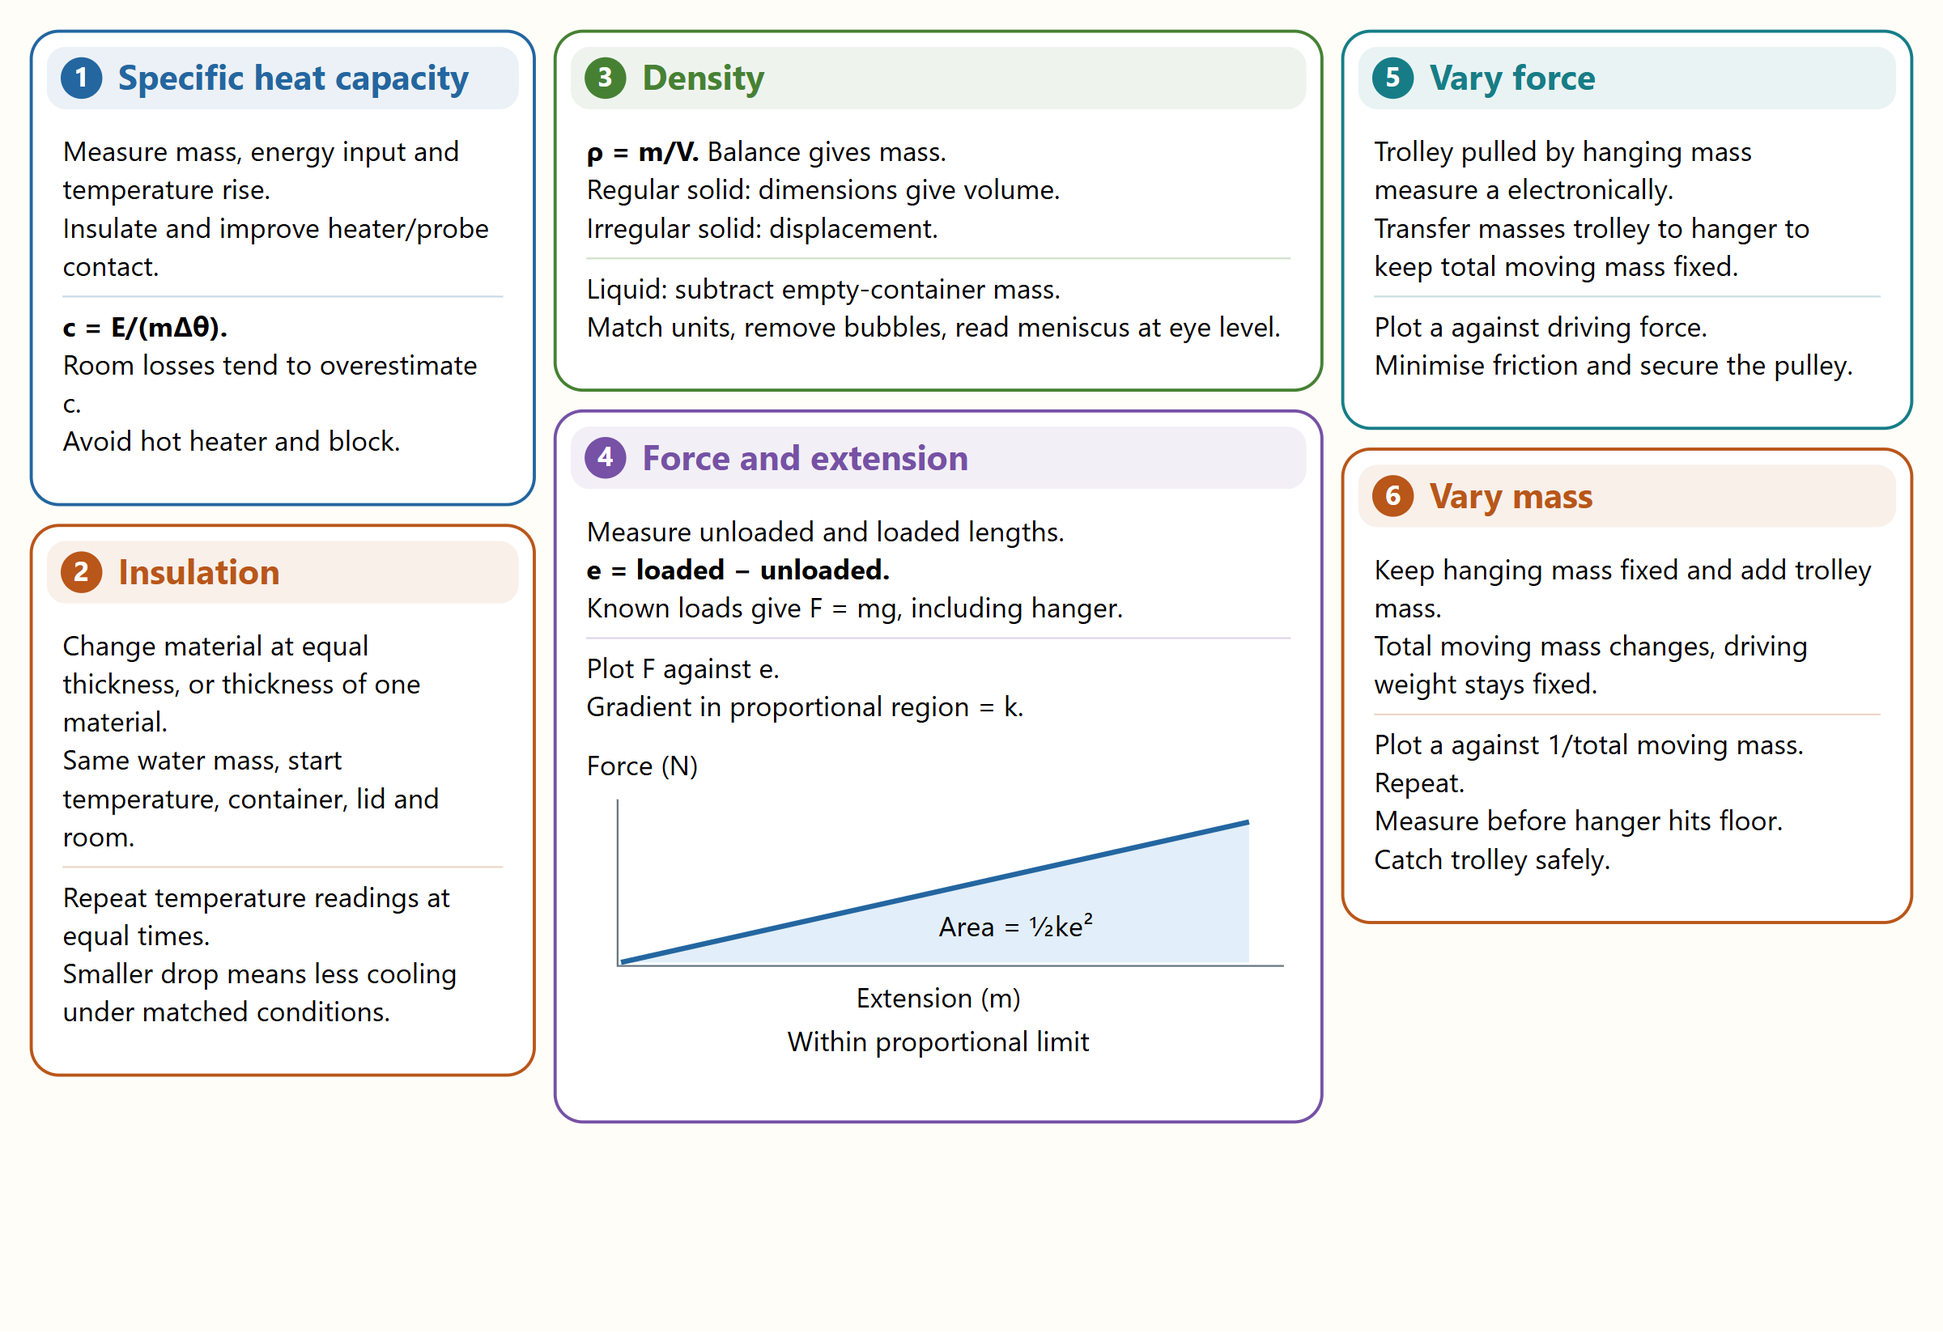
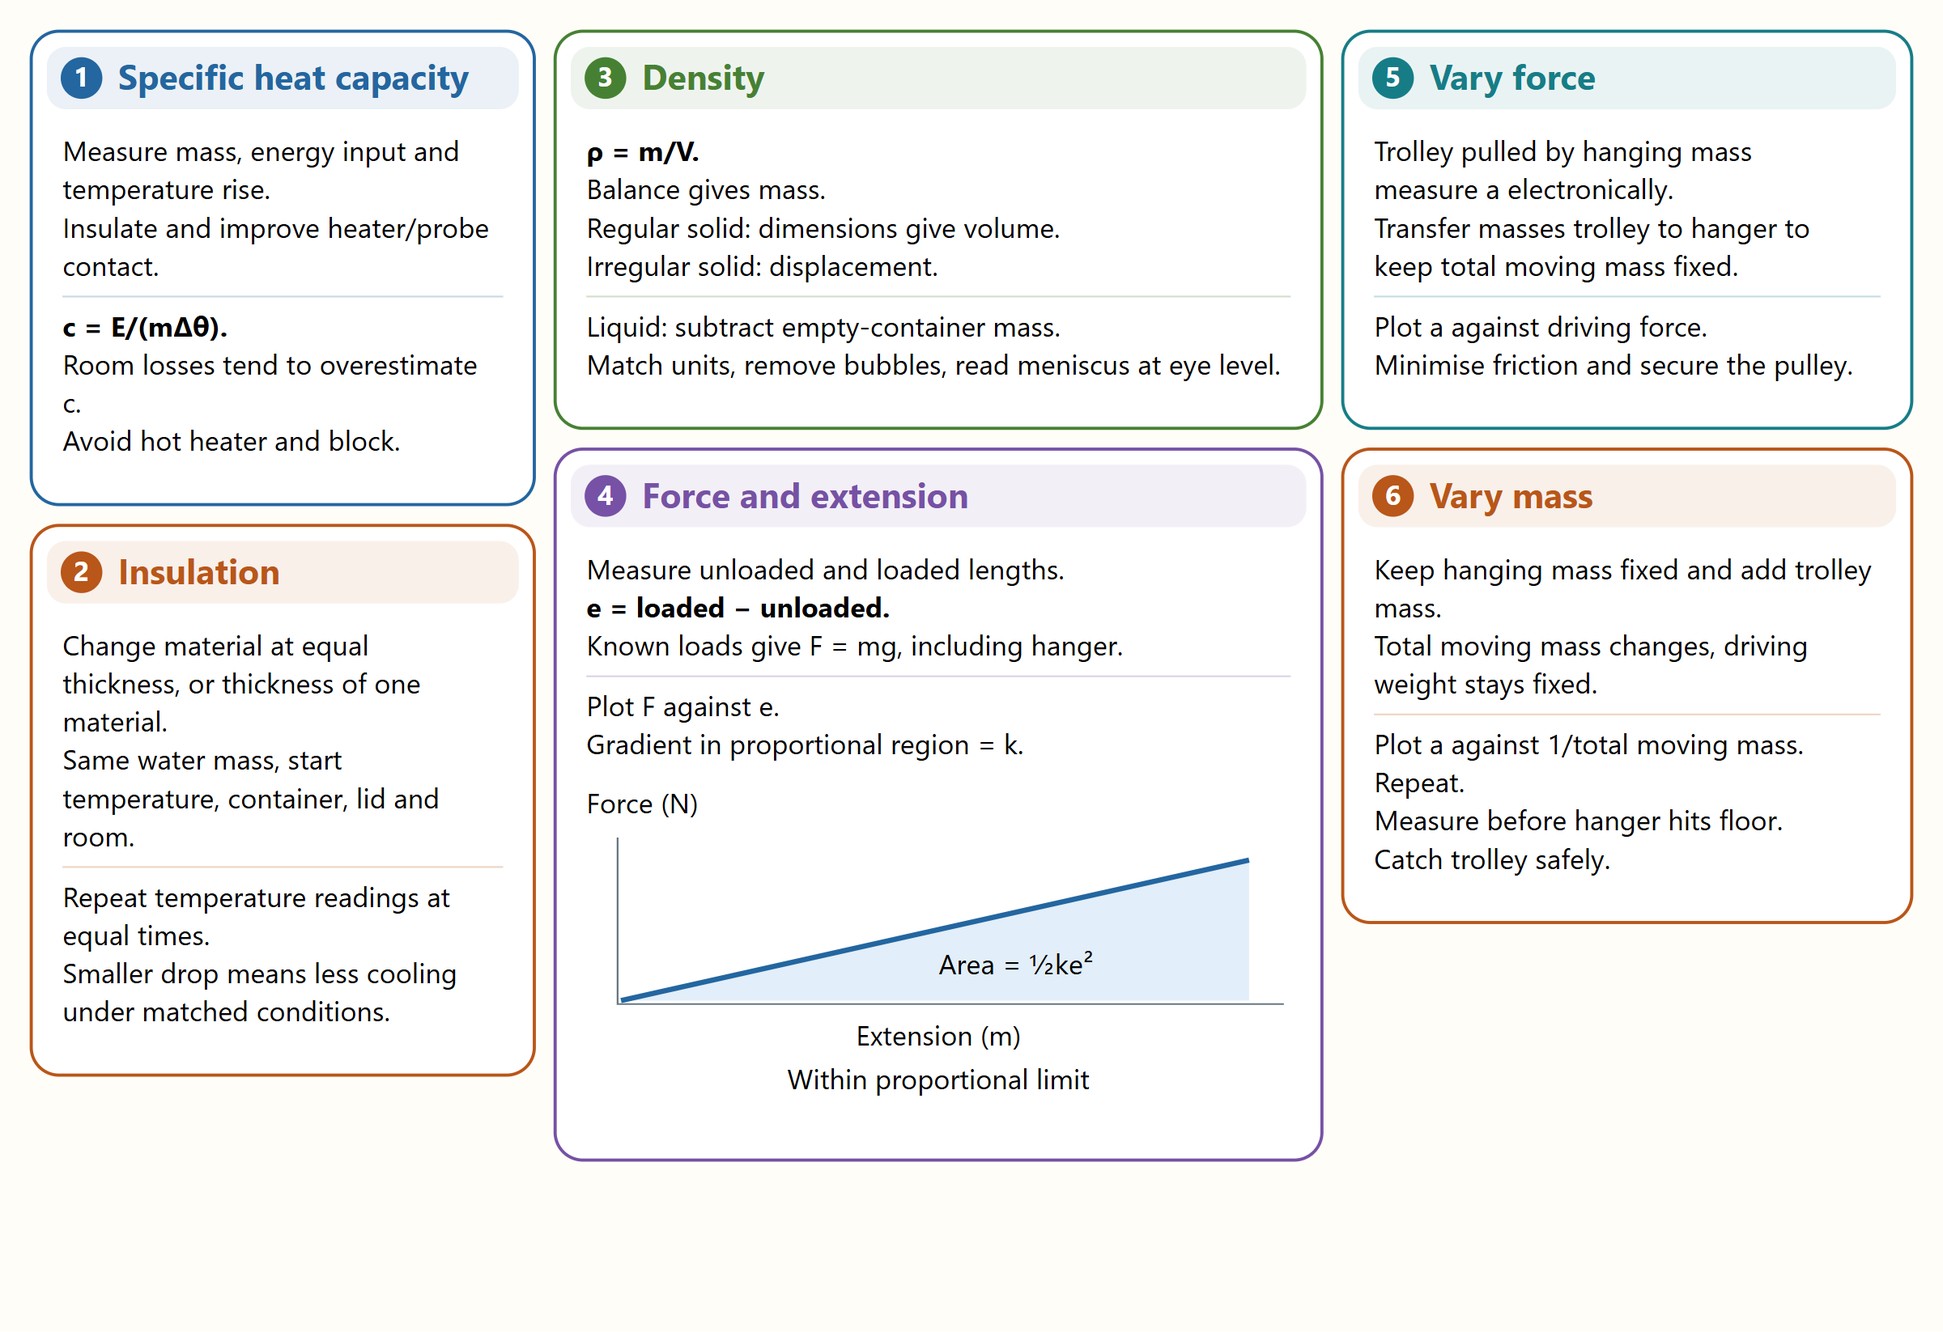
fix: review physics 09 mind-map equation layouts

diff --git a/library/resources/physics-aqa-working-scientifically-and-required-practicals-02-measurement-and-data.html b/library/resources/physics-aqa-working-scientifically-and-required-practicals-02-measurement-and-data.html
@@ -16,7 +16,8 @@
 <p>Anomalies: investigate, repeat and justify exclusion.</p>
 <h2>Tables and uncertainty</h2>
 <p>Headings give quantity and unit. Keep sensible precision.</p>
-<p>Mean = sum/count. Range = maximum − minimum.</p>
+<p>Mean = sum/count.</p>
+<p>Range = maximum − minimum.</p>
 <p>Half-range can estimate repeat uncertainty.</p>
 <p>Percentage uncertainty = uncertainty/value ×100.</p>
 <h2>Choose a graph</h2>
@@ -26,6 +27,7 @@
 <p>Independent variable usually goes on x.</p>
 <h2>Interpret the graph</h2>
 <p>Use a best-fit line or curve, not automatic dot-to-dot.</p>
-<p>Gradient = Δy/Δx. Use a large triangle.</p>
+<p>Gradient = Δy/Δx.</p>
+<p>Use a large triangle.</p>
 <p>Direct proportion needs a straight line through origin.</p>
 <p>Use specific data and evaluate uncertainty.</p></article></details><footer>GCSE preparation · 2027 · Your personal revision library</footer></main></div><script type="application/json" id="mindmap-catalog">[{"title": "Practical skills overview", "image": "../../Physics%20-%20AQA/09%20-%20Working%20scientifically%20and%20required%20practicals/Mind%20Maps/00-practical-skills-overview.svg", "thumbnail": "../../Physics%20-%20AQA/09%20-%20Working%20scientifically%20and%20required%20practicals/Mind%20Maps/00-practical-skills-overview.png", "page": "physics-aqa-working-scientifically-and-required-practicals-00-practical-skills-overview.html"}, {"title": "Planning and evidence", "image": "../../Physics%20-%20AQA/09%20-%20Working%20scientifically%20and%20required%20practicals/Mind%20Maps/01-planning-and-evidence.svg", "thumbnail": "../../Physics%20-%20AQA/09%20-%20Working%20scientifically%20and%20required%20practicals/Mind%20Maps/01-planning-and-evidence.png", "page": "physics-aqa-working-scientifically-and-required-practicals-01-planning-and-evidence.html"}, {"title": "Measurement and data", "image": "../../Physics%20-%20AQA/09%20-%20Working%20scientifically%20and%20required%20practicals/Mind%20Maps/02-measurement-and-data.svg", "thumbnail": "../../Physics%20-%20AQA/09%20-%20Working%20scientifically%20and%20required%20practicals/Mind%20Maps/02-measurement-and-data.png", "page": "physics-aqa-working-scientifically-and-required-practicals-02-measurement-and-data.html"}, {"title": "Heating and mechanics", "image": "../../Physics%20-%20AQA/09%20-%20Working%20scientifically%20and%20required%20practicals/Mind%20Maps/03-heating-and-mechanics.svg", "thumbnail": "../../Physics%20-%20AQA/09%20-%20Working%20scientifically%20and%20required%20practicals/Mind%20Maps/03-heating-and-mechanics.png", "page": "physics-aqa-working-scientifically-and-required-practicals-03-heating-and-mechanics.html"}, {"title": "Circuit practicals", "image": "../../Physics%20-%20AQA/09%20-%20Working%20scientifically%20and%20required%20practicals/Mind%20Maps/04-circuit-practicals.svg", "thumbnail": "../../Physics%20-%20AQA/09%20-%20Working%20scientifically%20and%20required%20practicals/Mind%20Maps/04-circuit-practicals.png", "page": "physics-aqa-working-scientifically-and-required-practicals-04-circuit-practicals.html"}, {"title": "Wave and ir practicals", "image": "../../Physics%20-%20AQA/09%20-%20Working%20scientifically%20and%20required%20practicals/Mind%20Maps/05-wave-and-ir-practicals.svg", "thumbnail": "../../Physics%20-%20AQA/09%20-%20Working%20scientifically%20and%20required%20practicals/Mind%20Maps/05-wave-and-ir-practicals.png", "page": "physics-aqa-working-scientifically-and-required-practicals-05-wave-and-ir-practicals.html"}]</script><dialog class="mindmap-dialog" id="mindmap-dialog" aria-labelledby="mindmap-dialog-title"><div class="mindmap-toolbar"><h2 id="mindmap-dialog-title">Mind maps</h2><div class="mindmap-controls"><button type="button" data-map-action="gallery">← All maps</button><span class="mindmap-sequence"><button type="button" data-map-action="previous" aria-label="Previous mind map">← Previous</button><output id="mindmap-position" aria-label="Mind map position" aria-live="polite"></output><button type="button" data-map-action="next" aria-label="Next mind map">Next →</button></span><span class="mindmap-zoom-controls"><button type="button" data-map-action="out" aria-label="Zoom out">−</button><output id="mindmap-zoom" aria-label="Zoom level" aria-live="polite">100%</output><button type="button" data-map-action="in" aria-label="Zoom in">+</button><button type="button" data-map-action="fit">Fit</button><button type="button" data-map-action="actual">100%</button></span><a id="mindmap-text-link" href="#">Text version</a><button type="button" data-map-action="print">Print</button><button type="button" data-map-action="close" aria-label="Close mind map">Close ×</button></div></div><div class="mindmap-modal-gallery"><div class="mindmap-grid"></div></div><div class="mindmap-canvas" tabindex="0" aria-label="Mind map; use zoom buttons and scroll to explore"><div class="mindmap-stage"><img id="mindmap-full-image" alt="" draggable="false"></div></div><p class="mindmap-load-error" role="alert" hidden>Unable to load this map. <a href="#">Open the map page</a></p></dialog></body></html>

diff --git a/library/resources/physics-aqa-working-scientifically-and-required-practicals-04-circuit-practicals.html b/library/resources/physics-aqa-working-scientifically-and-required-practicals-04-circuit-practicals.html
@@ -25,7 +25,8 @@
 <p><strong>Lamp:</strong> filament heats, R increases, gradient falls.</p>
 <p>Lamp heating is part of its changing behaviour.</p>
 <h2>Diode and evaluation</h2>
-<p><strong>Diode:</strong> significant current one way, little in reverse.</p>
+<p><strong>Diode:</strong> significant current one way</p>
+<p>little in reverse.</p>
 <p>Use a suitable range and current limit.</p>
 <p>Connect voltage across the component, not an unrelated section.</p>
 <p>Explain how any uncontrolled heating affects results.</p></article></details><footer>GCSE preparation · 2027 · Your personal revision library</footer></main></div><script type="application/json" id="mindmap-catalog">[{"title": "Practical skills overview", "image": "../../Physics%20-%20AQA/09%20-%20Working%20scientifically%20and%20required%20practicals/Mind%20Maps/00-practical-skills-overview.svg", "thumbnail": "../../Physics%20-%20AQA/09%20-%20Working%20scientifically%20and%20required%20practicals/Mind%20Maps/00-practical-skills-overview.png", "page": "physics-aqa-working-scientifically-and-required-practicals-00-practical-skills-overview.html"}, {"title": "Planning and evidence", "image": "../../Physics%20-%20AQA/09%20-%20Working%20scientifically%20and%20required%20practicals/Mind%20Maps/01-planning-and-evidence.svg", "thumbnail": "../../Physics%20-%20AQA/09%20-%20Working%20scientifically%20and%20required%20practicals/Mind%20Maps/01-planning-and-evidence.png", "page": "physics-aqa-working-scientifically-and-required-practicals-01-planning-and-evidence.html"}, {"title": "Measurement and data", "image": "../../Physics%20-%20AQA/09%20-%20Working%20scientifically%20and%20required%20practicals/Mind%20Maps/02-measurement-and-data.svg", "thumbnail": "../../Physics%20-%20AQA/09%20-%20Working%20scientifically%20and%20required%20practicals/Mind%20Maps/02-measurement-and-data.png", "page": "physics-aqa-working-scientifically-and-required-practicals-02-measurement-and-data.html"}, {"title": "Heating and mechanics", "image": "../../Physics%20-%20AQA/09%20-%20Working%20scientifically%20and%20required%20practicals/Mind%20Maps/03-heating-and-mechanics.svg", "thumbnail": "../../Physics%20-%20AQA/09%20-%20Working%20scientifically%20and%20required%20practicals/Mind%20Maps/03-heating-and-mechanics.png", "page": "physics-aqa-working-scientifically-and-required-practicals-03-heating-and-mechanics.html"}, {"title": "Circuit practicals", "image": "../../Physics%20-%20AQA/09%20-%20Working%20scientifically%20and%20required%20practicals/Mind%20Maps/04-circuit-practicals.svg", "thumbnail": "../../Physics%20-%20AQA/09%20-%20Working%20scientifically%20and%20required%20practicals/Mind%20Maps/04-circuit-practicals.png", "page": "physics-aqa-working-scientifically-and-required-practicals-04-circuit-practicals.html"}, {"title": "Wave and ir practicals", "image": "../../Physics%20-%20AQA/09%20-%20Working%20scientifically%20and%20required%20practicals/Mind%20Maps/05-wave-and-ir-practicals.svg", "thumbnail": "../../Physics%20-%20AQA/09%20-%20Working%20scientifically%20and%20required%20practicals/Mind%20Maps/05-wave-and-ir-practicals.png", "page": "physics-aqa-working-scientifically-and-required-practicals-05-wave-and-ir-practicals.html"}]</script><dialog class="mindmap-dialog" id="mindmap-dialog" aria-labelledby="mindmap-dialog-title"><div class="mindmap-toolbar"><h2 id="mindmap-dialog-title">Mind maps</h2><div class="mindmap-controls"><button type="button" data-map-action="gallery">← All maps</button><span class="mindmap-sequence"><button type="button" data-map-action="previous" aria-label="Previous mind map">← Previous</button><output id="mindmap-position" aria-label="Mind map position" aria-live="polite"></output><button type="button" data-map-action="next" aria-label="Next mind map">Next →</button></span><span class="mindmap-zoom-controls"><button type="button" data-map-action="out" aria-label="Zoom out">−</button><output id="mindmap-zoom" aria-label="Zoom level" aria-live="polite">100%</output><button type="button" data-map-action="in" aria-label="Zoom in">+</button><button type="button" data-map-action="fit">Fit</button><button type="button" data-map-action="actual">100%</button></span><a id="mindmap-text-link" href="#">Text version</a><button type="button" data-map-action="print">Print</button><button type="button" data-map-action="close" aria-label="Close mind map">Close ×</button></div></div><div class="mindmap-modal-gallery"><div class="mindmap-grid"></div></div><div class="mindmap-canvas" tabindex="0" aria-label="Mind map; use zoom buttons and scroll to explore"><div class="mindmap-stage"><img id="mindmap-full-image" alt="" draggable="false"></div></div><p class="mindmap-load-error" role="alert" hidden>Unable to load this map. <a href="#">Open the map page</a></p></dialog></body></html>

diff --git a/library/resources/physics-aqa-working-scientifically-and-required-practicals-03-heating-and-mechanics.html b/library/resources/physics-aqa-working-scientifically-and-required-practicals-03-heating-and-mechanics.html
@@ -2,7 +2,8 @@
 <h2>Specific heat capacity</h2>
 <p>Measure mass, energy input and temperature rise.</p>
 <p>Insulate and improve heater/probe contact.</p>
-<p><strong>c = E/(mΔθ)</strong>. Room losses tend to overestimate c.</p>
+<p><strong>c = E/(mΔθ)</strong>.</p>
+<p>Room losses tend to overestimate c.</p>
 <p>Avoid hot heater and block.</p>
 <h2>Insulation</h2>
 <p>Change material at equal thickness, or thickness of one material.</p>
@@ -10,16 +11,20 @@
 <p>Repeat temperature readings at equal times.</p>
 <p>Smaller drop means less cooling under matched conditions.</p>
 <h2>Density</h2>
-<p><strong>ρ = m/V.</strong> Balance gives mass.</p>
+<p><strong>ρ = m/V.</strong></p>
+<p>Balance gives mass.</p>
 <p>Regular solid: dimensions give volume. Irregular solid: displacement.</p>
 <p>Liquid: subtract empty-container mass.</p>
 <p>Match units, remove bubbles, read meniscus at eye level.</p>
 <h2>Force and extension</h2>
-<p>Measure unloaded and loaded lengths. <strong>e = loaded − unloaded</strong>.</p>
+<p>Measure unloaded and loaded lengths.</p>
+<p><strong>e = loaded − unloaded</strong>.</p>
 <p>Known loads give F = mg, including hanger.</p>
-<p>Plot F against e. Gradient in proportional region = k.</p>
+<p>Plot F against e.</p>
+<p>Gradient in proportional region = k.</p>
 <h2>Vary force</h2>
-<p>Trolley pulled by hanging mass; measure a electronically.</p>
+<p>Trolley pulled by hanging mass</p>
+<p>measure a electronically.</p>
 <p>Transfer masses trolley to hanger to keep total moving mass fixed.</p>
 <p>Plot a against driving force.</p>
 <p>Minimise friction and secure the pulley.</p>

diff --git a/library/resources/physics-aqa-working-scientifically-and-required-practicals-05-wave-and-ir-practicals.html b/library/resources/physics-aqa-working-scientifically-and-required-practicals-05-wave-and-ir-practicals.html
@@ -3,15 +3,18 @@
 <p>Lamp and dipper reveal waves in shallow water.</p>
 <p>Measure multiple wavelengths and calibrated frequency.</p>
 <p>Six crests contain five wavelengths.</p>
-<p>Keep depth fixed. Repeat and use v = fλ.</p>
+<p>Keep depth fixed.</p>
+<p>Repeat and use v = fλ.</p>
 <h2>String waves</h2>
 <p>Generator drives a stretched string at known f.</p>
-<p>Stationary loops span λ/2. Find λ then v = fλ.</p>
+<p>Stationary loops span λ/2.</p>
+<p>Find λ then v = fλ.</p>
 <p>Keep string type and tension fixed.</p>
 <p>Electronic timing is suitable for tiny sound delays.</p>
 <h2>Reflection</h2>
 <p>Trace mirror. Mark narrow incident/reflected rays at two points.</p>
-<p>Join points and draw normal. <strong>i = r</strong> from the normal.</p>
+<p>Join points and draw normal.</p>
+<p><strong>i = r</strong> from the normal.</p>
 <p>Compare smooth and rough surfaces.</p>
 <p>Use fine marks and consistent eye position.</p>
 <h2>Refraction</h2>
@@ -22,7 +25,8 @@
 <h2>IR emission</h2>
 <p>Leslie cube faces share temperature.</p>
 <p>Same detector distance and angle. Repeat readings.</p>
-<p>Matt black generally emits more; shiny metal less.</p>
+<p>Matt black generally emits more</p>
+<p>shiny metal less.</p>
 <p>Do not confuse temperature with surface-finish effects.</p>
 <h2>IR absorption</h2>
 <p>Matched samples, same mass and starting temperature.</p>

diff --git a/library/resources/physics-aqa-working-scientifically-and-required-practicals-00-practical-skills-overview.html b/library/resources/physics-aqa-working-scientifically-and-required-practicals-00-practical-skills-overview.html
@@ -19,7 +19,9 @@
 <p>Spring: F versus extension.</p>
 <p>Acceleration: vary force or mass while controlling the other.</p>
 <h2>Electricity</h2>
-<p>Ammeter in series. Voltmeter across component. <strong>R = V/I</strong>.</p>
+<p>Ammeter in series.</p>
+<p>Voltmeter across component.</p>
+<p><strong>R = V/I</strong>.</p>
 <p>Resistance: wire length and series/parallel combinations.</p>
 <p>I–V: fixed resistor, filament lamp and diode.</p>
 <p>Limit current and heating.</p>

diff --git a/Physics - AQA/09 - Working scientifically and required practicals/Mind Maps/03-heating-and-mechanics.md b/Physics - AQA/09 - Working scientifically and required practicals/Mind Maps/03-heating-and-mechanics.md
@@ -6,7 +6,9 @@ Measure mass, energy input and temperature rise.
 
 Insulate and improve heater/probe contact.
 
-**c = E/(mΔθ)**. Room losses tend to overestimate c.
+**c = E/(mΔθ)**.
+
+Room losses tend to overestimate c.
 
 Avoid hot heater and block.
 
@@ -22,7 +24,9 @@ Smaller drop means less cooling under matched conditions.
 
 ## Density
 
-**ρ = m/V.** Balance gives mass.
+**ρ = m/V.**
+
+Balance gives mass.
 
 Regular solid: dimensions give volume. Irregular solid: displacement.
 
@@ -32,15 +36,21 @@ Match units, remove bubbles, read meniscus at eye level.
 
 ## Force and extension
 
-Measure unloaded and loaded lengths. **e = loaded − unloaded**.
+Measure unloaded and loaded lengths.
+
+**e = loaded − unloaded**.
 
 Known loads give F = mg, including hanger.
 
-Plot F against e. Gradient in proportional region = k.
+Plot F against e.
+
+Gradient in proportional region = k.
 
 ## Vary force
 
-Trolley pulled by hanging mass; measure a electronically.
+Trolley pulled by hanging mass
+
+measure a electronically.
 
 Transfer masses trolley to hanger to keep total moving mass fixed.
 

diff --git a/Physics - AQA/09 - Working scientifically and required practicals/Mind Maps/05-wave-and-ir-practicals.md b/Physics - AQA/09 - Working scientifically and required practicals/Mind Maps/05-wave-and-ir-practicals.md
@@ -8,13 +8,17 @@ Measure multiple wavelengths and calibrated frequency.
 
 Six crests contain five wavelengths.
 
-Keep depth fixed. Repeat and use v = fλ.
+Keep depth fixed.
+
+Repeat and use v = fλ.
 
 ## String waves
 
 Generator drives a stretched string at known f.
 
-Stationary loops span λ/2. Find λ then v = fλ.
+Stationary loops span λ/2.
+
+Find λ then v = fλ.
 
 Keep string type and tension fixed.
 
@@ -24,7 +28,9 @@ Electronic timing is suitable for tiny sound delays.
 
 Trace mirror. Mark narrow incident/reflected rays at two points.
 
-Join points and draw normal. **i = r** from the normal.
+Join points and draw normal.
+
+**i = r** from the normal.
 
 Compare smooth and rough surfaces.
 
@@ -46,7 +52,9 @@ Leslie cube faces share temperature.
 
 Same detector distance and angle. Repeat readings.
 
-Matt black generally emits more; shiny metal less.
+Matt black generally emits more
+
+shiny metal less.
 
 Do not confuse temperature with surface-finish effects.
 

diff --git a/Physics - AQA/09 - Working scientifically and required practicals/Mind Maps/02-measurement-and-data.md b/Physics - AQA/09 - Working scientifically and required practicals/Mind Maps/02-measurement-and-data.md
@@ -34,7 +34,9 @@ Anomalies: investigate, repeat and justify exclusion.
 
 Headings give quantity and unit. Keep sensible precision.
 
-Mean = sum/count. Range = maximum − minimum.
+Mean = sum/count.
+
+Range = maximum − minimum.
 
 Half-range can estimate repeat uncertainty.
 
@@ -54,7 +56,9 @@ Independent variable usually goes on x.
 
 Use a best-fit line or curve, not automatic dot-to-dot.
 
-Gradient = Δy/Δx. Use a large triangle.
+Gradient = Δy/Δx.
+
+Use a large triangle.
 
 Direct proportion needs a straight line through origin.
 

diff --git a/Physics - AQA/09 - Working scientifically and required practicals/Mind Maps/00-practical-skills-overview.md b/Physics - AQA/09 - Working scientifically and required practicals/Mind Maps/00-practical-skills-overview.md
@@ -40,7 +40,11 @@ Acceleration: vary force or mass while controlling the other.
 
 ## Electricity
 
-Ammeter in series. Voltmeter across component. **R = V/I**.
+Ammeter in series.
+
+Voltmeter across component.
+
+**R = V/I**.
 
 Resistance: wire length and series/parallel combinations.
 

diff --git a/Physics - AQA/09 - Working scientifically and required practicals/Mind Maps/04-circuit-practicals.md b/Physics - AQA/09 - Working scientifically and required practicals/Mind Maps/04-circuit-practicals.md
@@ -52,7 +52,9 @@ Lamp heating is part of its changing behaviour.
 
 ## Diode and evaluation
 
-**Diode:** significant current one way, little in reverse.
+**Diode:** significant current one way
+
+little in reverse.
 
 Use a suitable range and current limit.
 
